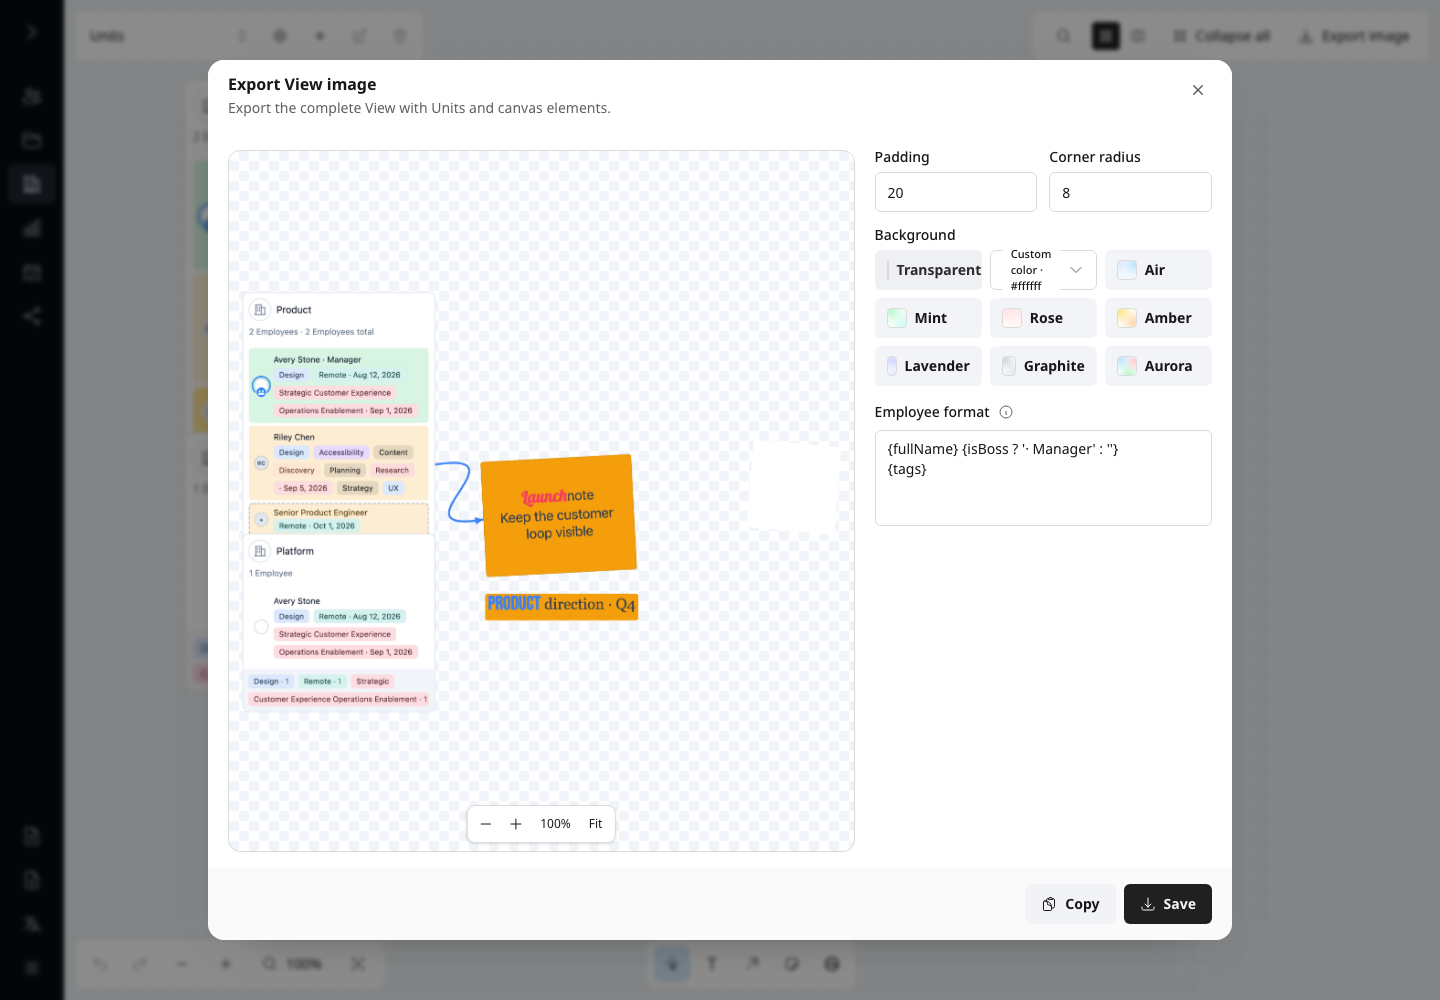
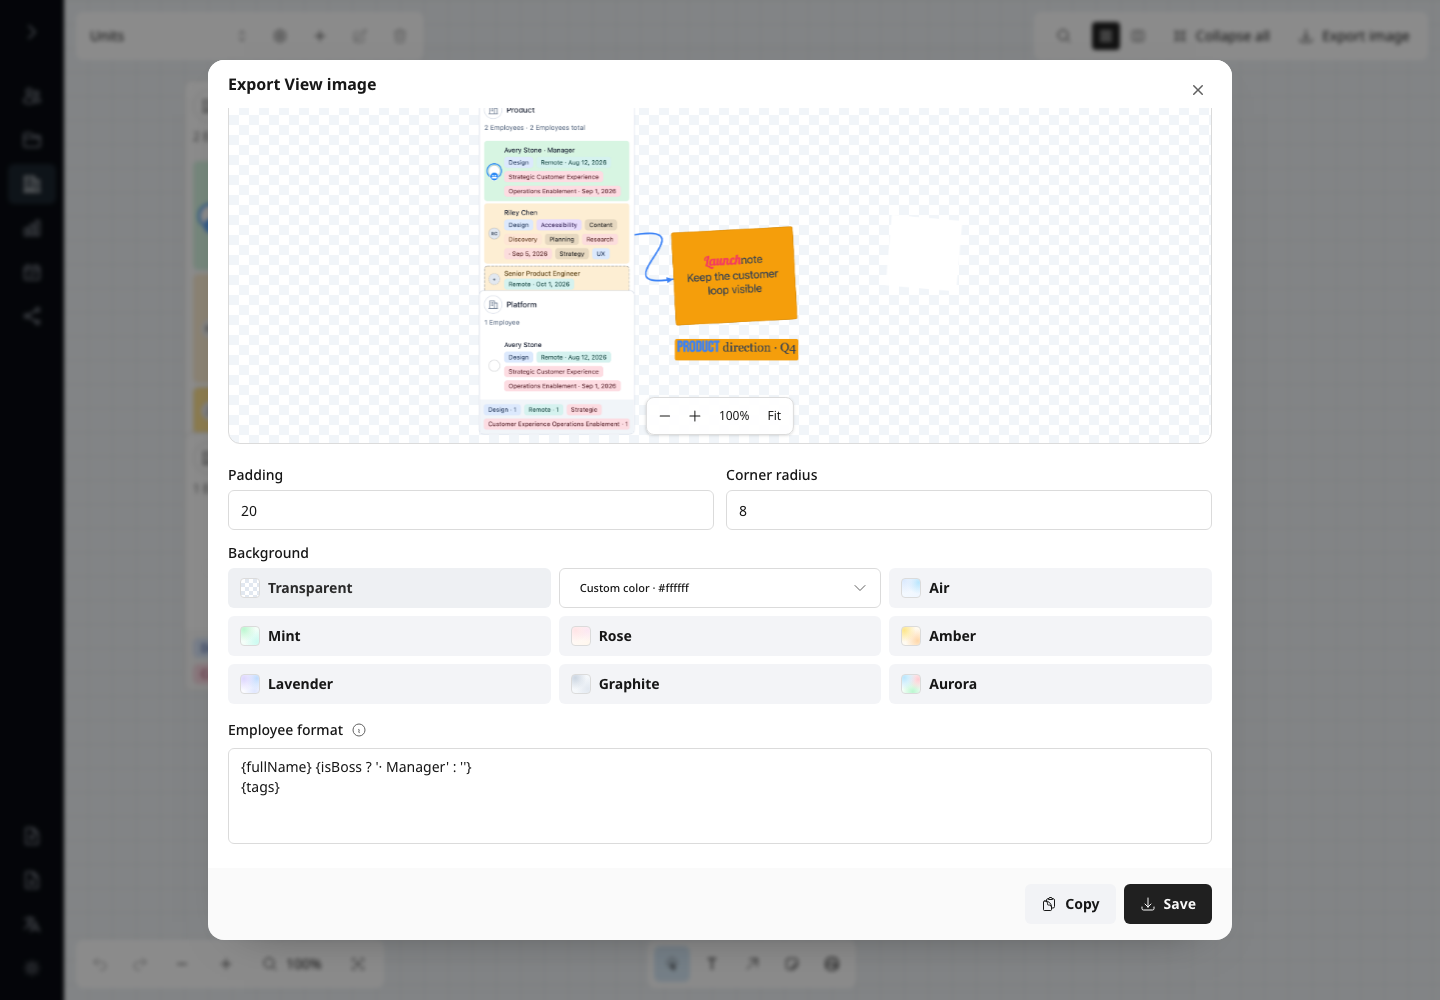
fix editor view image export layout

diff --git a/packages/screenshots/tests/canvas-tools-workflow.ts b/packages/screenshots/tests/canvas-tools-workflow.ts
@@ -804,6 +804,9 @@ export async function exerciseCanvasToolsAndViewExport(page: Page): Promise<void
   await page.locator('[data-demo-id="org-editor-view-image-export-action"]').click();
   const dialog = page.locator('[data-demo-id="org-editor-view-image-export-dialog"]');
   await expect(dialog).toBeVisible();
+  await expect(
+    dialog.getByText("Export the complete View with Units and canvas elements.", { exact: true }),
+  ).toHaveCount(0);
   await expect(dialog.getByLabel("Density", { exact: true })).toHaveCount(0);
   await expect(dialog.getByLabel("Font", { exact: true })).toHaveCount(0);
   await expect(dialog.getByLabel("Title", { exact: true })).toHaveCount(0);
@@ -812,6 +815,15 @@ export async function exerciseCanvasToolsAndViewExport(page: Page): Promise<void
   await expect(preview).toBeVisible();
   await expect(dialog.locator('[data-demo-id="org-editor-view-image-dimensions"]')).toHaveCount(0);
   const previewViewport = dialog.locator('[data-demo-id="org-editor-view-image-preview"]');
+  const settings = dialog.locator('[data-demo-id="org-editor-view-image-settings"]');
+  const [initialPreviewBox, settingsBox] = await Promise.all([
+    previewViewport.boundingBox(),
+    settings.boundingBox(),
+  ]);
+  if (!initialPreviewBox || !settingsBox) {
+    throw new Error("View image export layout geometry is unavailable.");
+  }
+  expect(settingsBox.y).toBeGreaterThanOrEqual(initialPreviewBox.y + initialPreviewBox.height);
   await expect(previewViewport).toHaveAttribute("data-preview-mode", "fit");
   const fittedScale = Number(await previewViewport.getAttribute("data-preview-scale"));
   await previewViewport.hover();
@@ -834,7 +846,7 @@ export async function exerciseCanvasToolsAndViewExport(page: Page): Promise<void
   await page.mouse.up();
   await expect.poll(() => preview.getAttribute("style")).not.toBe(transformBeforePan);
   const transformBeforeKeyboardPan = await preview.getAttribute("style");
-  await previewViewport.press("ArrowRight");
+  await previewViewport.press("ArrowDown");
   await expect.poll(() => preview.getAttribute("style")).not.toBe(transformBeforeKeyboardPan);
   await expect
     .poll(async () => Number(await previewViewport.getAttribute("data-preview-scale")))

diff --git a/apps/ui/src/components/org-editor-view-image-export-dialog.tsx b/apps/ui/src/components/org-editor-view-image-export-dialog.tsx
@@ -25,7 +25,6 @@ import {
   Dialog,
   DialogBody,
   DialogContent,
-  DialogDescription,
   DialogFooter,
   DialogHeader,
   DialogTitle,
@@ -245,14 +244,11 @@ export function OrgEditorViewImageExportDialog({
       >
         <DialogHeader>
           <DialogTitle>{t("Export View image")}</DialogTitle>
-          <DialogDescription>
-            {t("Export the complete View with Units and canvas elements.")}
-          </DialogDescription>
         </DialogHeader>
-        <DialogBody className="grid min-h-0 flex-1 gap-5 overflow-y-auto lg:grid-cols-[minmax(0,1.3fr)_minmax(20rem,0.7fr)]">
+        <DialogBody className="flex min-h-0 flex-1 flex-col gap-4 overflow-y-auto">
           <OrgEditorImagePreview
             alt={t("View export preview")}
-            className="min-h-72 lg:min-h-0"
+            className="h-[360px] shrink-0"
             dataDemoId="org-editor-view-image-preview"
             {...(hasContent
               ? {}
@@ -264,7 +260,7 @@ export function OrgEditorViewImageExportDialog({
             src={previewError ? null : previewUrl}
             width={previewSize.width}
           />
-          <section className="grid content-start gap-4">
+          <section className="grid gap-4 py-2" data-demo-id="org-editor-view-image-settings">
             <div className="grid grid-cols-2 gap-3">
               <div className="grid gap-2">
                 <Label>{t("Padding")}</Label>

diff --git a/openspec/changes/archive/2026-09-25-stack-view-image-export-settings/specs/project-tooling/spec.md b/openspec/changes/archive/2026-09-25-stack-view-image-export-settings/specs/project-tooling/spec.md
@@ -1,0 +1,54 @@
+## MODIFIED Requirements
+
+### Requirement: Documentation and gallery cover current product surfaces
+The repository SHALL document both local-only runtimes, six bundled locales, Arabic RTL, isolated
+Editor Views over global Employees, Analytics bound to the system View, View-selectable Data
+Download, wrapped direct Tag footers, modal Language and Theme settings, selected-only Editor
+arrangement, direct State Export, source-driven Employee Import, colored Editor PNG Tags, privacy,
+performance, and screenshots without obsolete guidance. The deterministic gallery SHALL contain
+exactly 59 PNGs and the README SHALL retain exactly ten featured Import, Export, Theme, Language,
+Units, Employees, Editor, Analytics, Calendar, and Download frames.
+
+#### Scenario: Complete gallery
+- **WHEN** screenshot generation runs against the production runtimes
+- **THEN** it deterministically replaces exactly 59 declared PNGs covering only current product workflows
+
+#### Scenario: Locale gallery
+- **WHEN** Language frames are generated
+- **THEN** the primary frame shows six flagged language rows and the supporting frame demonstrates Arabic RTL
+
+#### Scenario: Updated workflow gallery
+- **WHEN** Editor, Units, Calendar, Language, Import, Download, and Tag frames are generated
+- **THEN** they show View selection and management, direct Tag footers, View Download source, colored PNG Tags, rose weekends, flags, target Selects, and flat spaced Tag management
+
+#### Scenario: View workflow gallery
+- **WHEN** the four supporting View frames are generated
+- **THEN** they show the selector, Blank/Copy dialog, isolated custom document, and Rename/Delete lifecycle with synthetic data
+
+#### Scenario: Transfer gallery
+- **WHEN** screenshot generation completes
+- **THEN** featured Import shows State and Employee modes while supporting frames show source-driven mapping and explicit database recreation
+
+#### Scenario: Tag management gallery
+- **WHEN** Tag supporting frames are generated
+- **THEN** catalog, rename, quick color, full Employee membership, and separated padding-free rows are visible across the maintained scenarios
+
+#### Scenario: Structured-output gallery
+- **WHEN** screenshot generation completes
+- **THEN** Data Download shows its View source, JSON collections, exact exclusions, bounded preview, Template, and token suggestions while Editor shows Image, JSON, and Template for the active View
+
+#### Scenario: Editor gallery
+- **WHEN** Editor frames are generated
+- **THEN** the system selector and protected management state are visible without restoring View-local Employee copies or overrides
+
+#### Scenario: Featured README
+- **WHEN** a visitor opens README
+- **THEN** the same ten current product previews remain featured and every linked PNG exists
+
+#### Scenario: Deterministic generation
+- **WHEN** the 59-frame gallery is generated twice from unchanged source and fixed fixtures
+- **THEN** every PNG hash is identical and every owned page has no unexpected console or network diagnostic
+
+#### Scenario: Full-View image settings frame
+- **WHEN** the full-View image export gallery frame is captured
+- **THEN** it shows the preview above the uncompressed settings and no redundant explanatory subtitle

diff --git a/openspec/changes/archive/2026-09-25-stack-view-image-export-settings/design.md b/openspec/changes/archive/2026-09-25-stack-view-image-export-settings/design.md
@@ -1,0 +1,48 @@
+## Context
+
+The scoped Unit image export already renders a fixed-height preview followed by one vertical settings section. The full-View dialog reuses the same preview and control components, but its responsive body changes to a preview/settings grid at the large breakpoint. The narrower settings column makes the number inputs, background selector, and Employee format control visually unstable.
+
+The dialog is transient UI. Its settings draft, export renderer, State contract, and local-only trust boundary do not need to change.
+
+## Goals / Non-Goals
+
+**Goals:**
+
+- Give full-View export the same preview-first, settings-second reading order as scoped export at every viewport width.
+- Remove the redundant subtitle and its now-unused localization entry.
+- Keep the dialog bounded and scrollable while preserving preview, Copy, and Save behavior.
+- Add an observable browser assertion for the layout relationship.
+
+**Non-Goals:**
+
+- Changing image dimensions, density, rendering, settings values, State, SQLite, or export files.
+- Restyling the scoped export dialog or introducing a new shared dialog abstraction.
+
+## Decisions
+
+### Use the scoped dialog's vertical composition
+
+The full-View body will use a single vertical flow. Its preview receives the same fixed 360-pixel height as the scoped image preview, and the existing settings section follows it with matching vertical padding. A stable data hook on the settings section lets browser tests compare actual bounding boxes.
+
+Alternative: retain the wide-screen grid and increase the settings-column width. Rejected because it still differs from the requested scoped-export composition and competes with the preview for horizontal space.
+
+### Remove the subtitle entirely
+
+The header will contain only the existing **Export View image** title. The obsolete description key will be removed from all six catalogs so localization parity continues to reject dead public copy.
+
+### Preserve existing data and rendering paths
+
+Only DOM composition changes. Preview calculation, renderer inputs, color selection, format editing, status handling, Copy, and Save continue through their existing paths. No organization value crosses a new boundary, and no additional work is added to large-organization rendering.
+
+## Risks / Trade-offs
+
+- [Settings require scrolling sooner] → Keep the existing bounded dialog and scrollable body, while the predictable one-column layout prevents compressed controls.
+- [A future style change could restore side-by-side placement] → Assert that the settings top edge is below the preview bottom edge in the maintained browser workflow.
+
+## Migration Plan
+
+No data migration is required. Deploy and rollback are source-only because the exact State shape and SQLite row are unchanged.
+
+## Open Questions
+
+None.

diff --git a/openspec/changes/archive/2026-09-25-stack-view-image-export-settings/specs/organization-editor/spec.md b/openspec/changes/archive/2026-09-25-stack-view-image-export-settings/specs/organization-editor/spec.md
@@ -1,0 +1,40 @@
+## MODIFIED Requirements
+
+### Requirement: Editor exports one complete View image
+The Editor SHALL provide bounded full-View and scoped Image export workflows. Standard Unit and
+Employee content SHALL use the local system UI family. Before layout, preview, Copy, or Save, the
+renderer SHALL wait for every unique Text-base, Sticker-base, Text-range, and Sticker-range font
+request required by durable canvas elements. Text and Sticker rich glyph fragments, automatic and
+manual fitting, effective scale, block/per-line fills, alignment, rotation, layers, attachments,
+and normalized Arrow curves SHALL match the live canvas. Preview navigation, safety limits,
+supported settings, Employee formatting, action icons, scope, and transient-chrome exclusions SHALL
+remain consistent across both dialogs. The full-View dialog SHALL place its complete preview before
+one full-width settings section at every responsive breakpoint and SHALL omit a descriptive subtitle.
+
+#### Scenario: Use the standard structure font
+- **WHEN** full-View or Unit/subtree Image output contains standard Unit and Employee content
+- **THEN** preview, Copy, and Save use the local system UI stack without a font selector
+
+#### Scenario: Export fitted rich Text
+- **WHEN** scoped or full-View PNG includes automatic or manually sized Text with mixed typography or fill
+- **THEN** the image uses the same effective scale, fragments, lines, final bounds, glyph styling, and background geometry as the live canvas
+
+#### Scenario: Export rich Sticker
+- **WHEN** scoped or full-View PNG includes a Sticker with inline family, size, weight, or color ranges
+- **THEN** the image uses the same fragments, wrapping, vertical alignment, minimum height, flat paper fill, and border as the live canvas
+
+#### Scenario: Export a proportionally resolved Arrow
+- **WHEN** PNG includes an Arrow whose endpoint moved directly or through an attachment
+- **THEN** its cubic path and marker placement match the normalized shape visible on the canvas
+
+#### Scenario: Keep fonts local
+- **WHEN** either runtime renders canvas content or generates PNG with any durable canvas-element family
+- **THEN** no remote font, font catalog, organization data, or image output request is made
+
+#### Scenario: Preserve image workflows
+- **WHEN** preview, zoom, pan, Fit, Copy, Save, density clamping, or Unit/subtree scope is used
+- **THEN** the bounded local behavior remains available and transient interaction chrome stays out of the PNG
+
+#### Scenario: Stack full-View image settings
+- **WHEN** the full-View image export dialog opens at any supported viewport width
+- **THEN** the complete preview appears above all image settings in one vertical flow and the header contains no explanatory subtitle

diff --git a/openspec/specs/organization-editor/spec.md b/openspec/specs/organization-editor/spec.md
@@ -997,7 +997,8 @@ request required by durable canvas elements. Text and Sticker rich glyph fragmen
 manual fitting, effective scale, block/per-line fills, alignment, rotation, layers, attachments,
 and normalized Arrow curves SHALL match the live canvas. Preview navigation, safety limits,
 supported settings, Employee formatting, action icons, scope, and transient-chrome exclusions SHALL
-remain consistent across both dialogs.
+remain consistent across both dialogs. The full-View dialog SHALL place its complete preview before
+one full-width settings section at every responsive breakpoint and SHALL omit a descriptive subtitle.
 
 #### Scenario: Use the standard structure font
 - **WHEN** full-View or Unit/subtree Image output contains standard Unit and Employee content
@@ -1022,6 +1023,10 @@ remain consistent across both dialogs.
 #### Scenario: Preserve image workflows
 - **WHEN** preview, zoom, pan, Fit, Copy, Save, density clamping, or Unit/subtree scope is used
 - **THEN** the bounded local behavior remains available and transient interaction chrome stays out of the PNG
+
+#### Scenario: Stack full-View image settings
+- **WHEN** the full-View image export dialog opens at any supported viewport width
+- **THEN** the complete preview appears above all image settings in one vertical flow and the header contains no explanatory subtitle
 
 ### Requirement: Scoped Editor PNG includes related annotations
 Unit-only and subtree Image export SHALL include the selected Unit closure plus rectangular elements

diff --git a/openspec/changes/archive/2026-09-25-stack-view-image-export-settings/proposal.md b/openspec/changes/archive/2026-09-25-stack-view-image-export-settings/proposal.md
@@ -1,0 +1,25 @@
+## Why
+
+The full-View image export dialog places its settings in a narrow right-hand column on wide screens, which compresses controls and causes labels and color choices to wrap poorly. Its explanatory subtitle repeats what the dialog title and action already communicate.
+
+## What Changes
+
+- Place the complete-View preview first and stack every image setting below it, matching the established Unit context-menu image export layout.
+- Remove the descriptive subtitle from the full-View image export dialog.
+- Preserve every existing export setting, preview interaction, Copy and Save action, renderer behavior, and local-only data flow.
+- Keep the exact State shape and SQLite contents unchanged.
+
+## Capabilities
+
+### New Capabilities
+
+None.
+
+### Modified Capabilities
+
+- `organization-editor`: require the full-View image export dialog to use the same vertical preview-and-settings composition as scoped Unit image export and omit the redundant subtitle.
+- `project-tooling`: cover the vertical dialog composition and removed subtitle in browser tests and the maintained screenshot gallery.
+
+## Impact
+
+The change affects the full-View image export dialog, six bundled locale catalogs, focused browser assertions, product documentation, OpenSpec capability requirements, and existing gallery images. It adds no dependency, network access, State field, persistence behavior, or SQLite conversion.

diff --git a/openspec/changes/archive/2026-09-25-stack-view-image-export-settings/tasks.md b/openspec/changes/archive/2026-09-25-stack-view-image-export-settings/tasks.md
@@ -1,0 +1,16 @@
+## 1. Full-View image dialog
+
+- [x] 1.1 Stack the full-View preview and settings vertically with the established scoped-export dimensions and spacing.
+- [x] 1.2 Remove the explanatory subtitle and its obsolete key from all six locale catalogs.
+- [x] 1.3 Add browser coverage for the vertical ordering and absent subtitle while preserving existing preview, settings, Copy, and Save checks.
+
+## 2. Documentation and gallery
+
+- [x] 2.1 Update usage, architecture, screenshot documentation, and OpenSpec task status for the current dialog composition.
+- [x] 2.2 Regenerate the maintained 59-frame gallery without changing its manifest and visually verify the affected image-export frames.
+
+## 3. Validation and delivery
+
+- [x] 3.1 Run formatting, lint, typecheck, unit tests, development probe, production build, and both-runtime browser tests.
+- [x] 3.2 Generate the gallery twice, compare deterministic hashes, inspect every PNG, and run Pages build/check, public-safety scan, strict OpenSpec validation, and `git diff --check`.
+- [x] 3.3 Synchronize capability deltas, archive the change, commit meaningfully, integrate fresh `origin/main`, merge and push `main`, delete the completed branch, and verify a clean synchronized repository with no active OpenSpec changes.

diff --git a/docs/usage.md b/docs/usage.md
@@ -240,8 +240,8 @@ control.
   disabling the highlights. The setting is View-local and does not alter Units, history, geometry,
   JSON, or Template output. Editor Image exports preserve its stable row tones without selection,
   placement lines, or endpoint markers. The dedicated View Image dialog previews the entire durable
-  scene and offers the same background picker, padding, Unit radius, Employee format, Copy, and
-  Save controls. Solid backgrounds use the shared preset, used, and custom color picker with
+  scene in a preview-first vertical dialog, with the background picker, padding, Unit radius, and
+  Employee format arranged below it before the Copy and Save controls. Solid backgrounds use the shared preset, used, and custom color picker with
   opacity. Its Employee rows use the saved Editor-export line spacing and standard structure text
   uses the system UI font; Text and Sticker elements retain their own typography.
   Full-View and Unit/subtree previews begin fitted and support pointer-centered wheel zoom,

diff --git a/docs/screenshots.md b/docs/screenshots.md
@@ -453,8 +453,9 @@ Capabilities: JSON, Drag-and-drop order, Scoped Employees, Scoped assignments, U
 
 [![Editor image detail settings](screenshots/feature-editor-image-settings.png)](screenshots/feature-editor-image-settings.png)
 
-Choose a transparent, gradient, preset, used, or custom solid background with opacity; configure
-spacing and `@`-assisted conditional Employee card content beside the complete View preview.
+Navigate the complete View preview first, then choose a transparent, gradient, preset, used, or
+custom solid background with opacity and configure spacing plus `@`-assisted conditional Employee
+card content in the full-width settings block below it.
 Employee rows use the saved Editor-export line spacing and output requests 3× automatically.
 
 Capabilities: Fixed 3× and silent clamping, Fit/manual preview, Shared color picker, Gradients and

diff --git a/docs/architecture.md b/docs/architecture.md
@@ -315,7 +315,8 @@ request IDs remain independent.
   surfaces and full-View Image Employee format use one multiline Format input whose caret menu
   converts `@query` into existing `{token}` syntax. A small help affordance and the placeholder
   disclose the shortcut; help also documents the existing `{condition ? 'value' : 'fallback'}`
-  expression. Tooltip, query, suggestion, and empty-line option state are transient.
+  expression. The full-View Image dialog keeps its preview above one full-width settings block at
+  every breakpoint. Tooltip, query, suggestion, and empty-line option state are transient.
 
 Org Editor DOM and PNG output share a pure scene layer for persistent canvas-element geometry,
 attachment resolution, text wrapping, rotated bounds, cubic extrema, and two-plane ordering. Full

diff --git a/openspec/specs/project-tooling/spec.md b/openspec/specs/project-tooling/spec.md
@@ -328,6 +328,10 @@ Units, Employees, Editor, Analytics, Calendar, and Download frames.
 - **WHEN** the 59-frame gallery is generated twice from unchanged source and fixed fixtures
 - **THEN** every PNG hash is identical and every owned page has no unexpected console or network diagnostic
 
+#### Scenario: Full-View image settings frame
+- **WHEN** the full-View image export gallery frame is captured
+- **THEN** it shows the preview above the uncompressed settings and no redundant explanatory subtitle
+
 ### Requirement: Localization validation covers every supported catalog
 Automated checks SHALL validate exact keys, placeholders, non-empty translations, allowed technical
 tokens, browser detection, writing direction, and representative visible and accessibility surfaces
